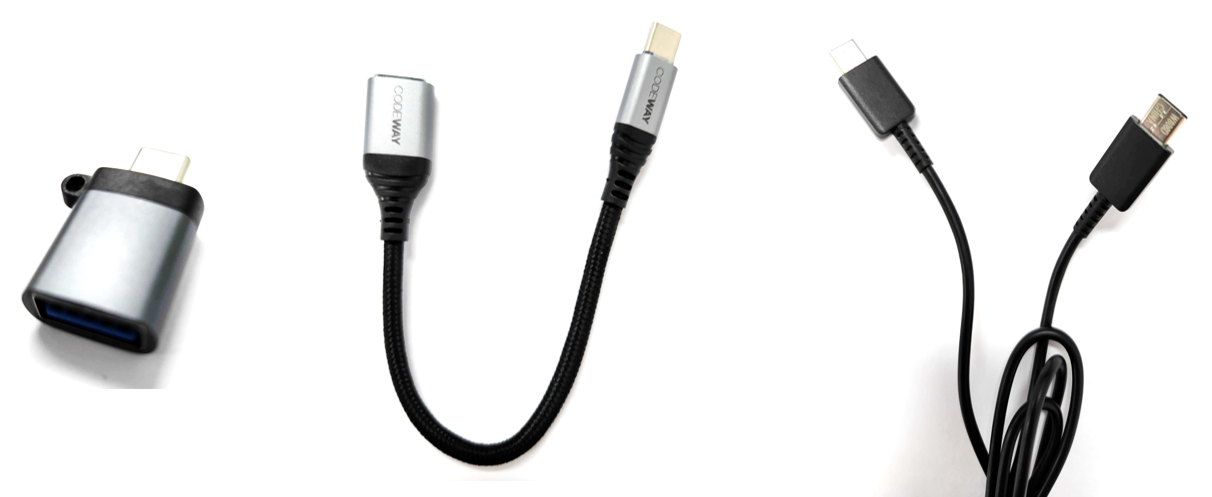
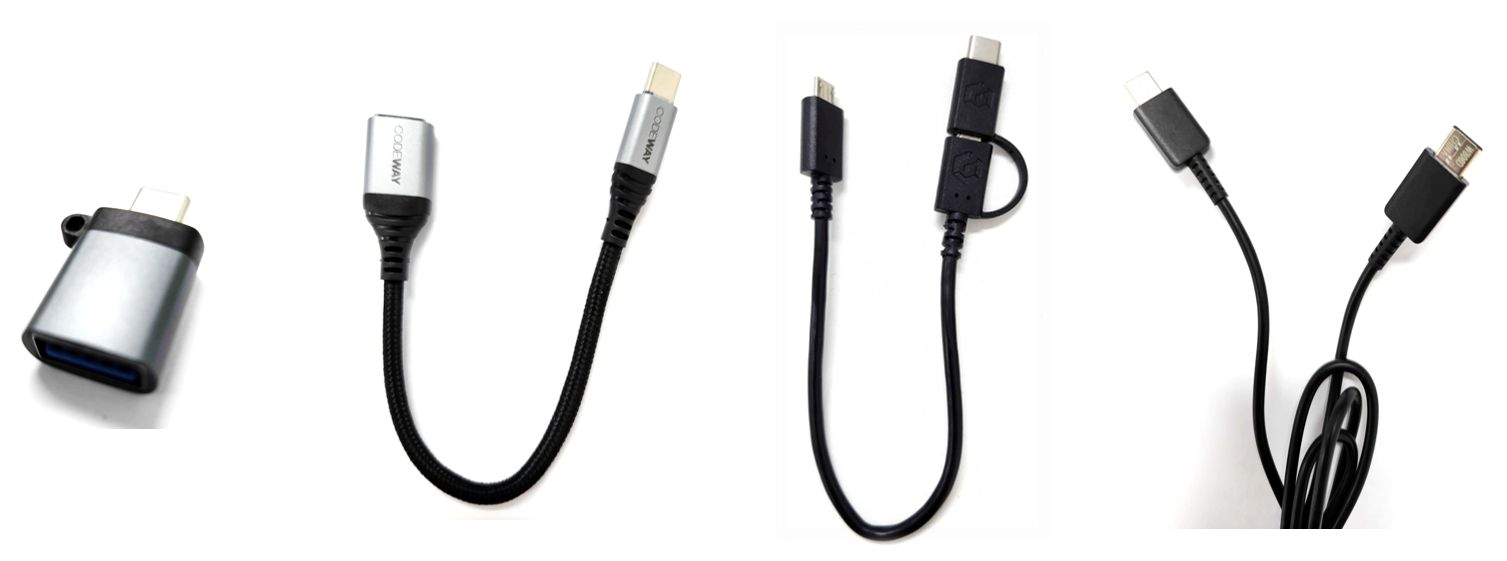
GITBOOK-711: change request with no subject merged in GitBook

Changed region(s): [[0.2137, 0.0302, 1.0, 1.0], [0.0, 0.332, 0.1832, 0.7847]]

diff --git a/biometric-wallet/android-connect/android-otg.md b/biometric-wallet/android-connect/android-otg.md
@@ -17,18 +17,18 @@ OTG는 On-The-Go의 약자로 스마트폰에 USB 장치를 연결할 수 있게
 </div>
 
 {% hint style="info" %}
-OTG 제품은 디센트 콜드월렛 패키지에 포함되어 있지 않으며, 이용하시는 스마트폰과 콜드월렛 충전단자에 맞는 제품을 시중에서 별도로 구매하셔야 합니다.
+OTG 제품은 디센트 콜드월렛 패키지에 포함되어 있지 않으며, 시중에서 판매하는 제품을 별도로 구매하셔야 합니다.
 {% endhint %}
 
 ### OTG 제품 종류&#x20;
 
-OTG 제품의 종류로는 젠더 타입, 케이블 타입 등이 있으며, 별도의 젠더나 케이블 없이 스스마트폰과 콜드월렛 충전단자에 바로 연결할 수 있는 C to C 형태의 제품이 있습니다.
+OTG 제품의 종류로는 젠더 타입, 케이블 타입 등이 있으며, 별도의 젠더나 케이블 없이 스마트폰과 콜드월렛 충전단자에 바로 연결할 수 있는 C to C 형태의 제품이 있습니다.
 
 이용하시는 안드로이드 스마트폰과 콜드월렛 충전단자에 맞는 OTG 제품을 이용하여 주시길 바랍니다.
 
 <div align="left">
 
-<img src="../../.gitbook/assets/OTG 예시.png" alt="젠더 타입 / 케이블 타입 / C to C 케이블 제품 예시">
+<img src="../../.gitbook/assets/OTG 예시.png" alt="OTG 제품 종류 예시 : 젠더 타입 / 케이블 타입 / 디센트 정품 2 IN 1 OTG 케이블 / C to C 케이블">
 
 </div>
 
